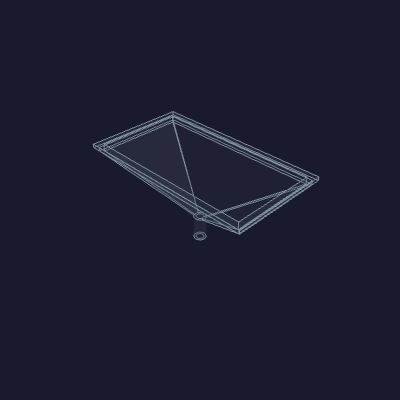
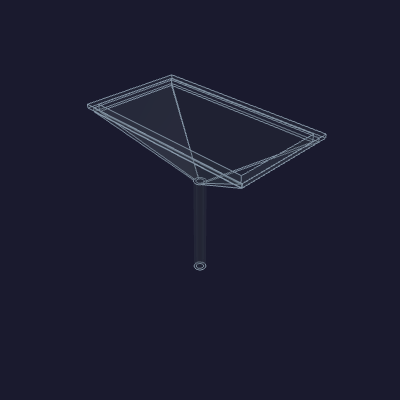
hopper-funnel: drop the spout exit to its column floor (z224 → z155)
The straight spout no longer uses a fixed 21 mm tube length. It now drops
by the same live rule the neck already uses: to one mm above the tallest
content under the spout's own circular footprint (a subset of the mouth, so
the exit is always at or below the neck). The narrow Ø6.35 column is clear
of every placed part from the neck down until it grazes the top-right corner
of the compressor-shroud, so the exit lands at z=155.5 — 68.5 mm lower than
before, total drop 143 mm below the brim, with a 1.0 mm gap to the shroud.

Centered on the opening, so x and y are unchanged.

Changed region(s): [[0.21, 0.18, 0.84, 0.6], [0.48, 0.63, 0.51, 0.69]]

diff --git a/hardware/printed-parts/zone-c/hopper-funnel/hopper_funnel.py b/hardware/printed-parts/zone-c/hopper-funnel/hopper_funnel.py
@@ -8,10 +8,11 @@ to bottom:
     top surface;
   * a straight rectangular collar — vertical walls, no slope — that press-fits
     into the opening, filling the 3 mm top wall;
-  * a ramp from that rectangular mouth down to a 1/4" round spout that hangs into
-    the Zone C funnel reserve, stopping one mm clear of the tallest content below
-    (the bib-gate tray) — so the drop is exactly the room the current packing
-    leaves.
+  * a ramp from that rectangular mouth down to a 1/4" round spout, then a straight
+    spout tube that hangs into the Zone C funnel reserve. The ramp necks one mm
+    above the tallest content under the mouth; the spout then drops to one mm above
+    the tallest content under its own circular footprint — so both sit exactly where
+    the current packing leaves room.
 
 The funnel shares the opening rectangle with the enclosure, so the collar always
 matches the hole. It is built in enclosure world coordinates (+X right, +Y back,
@@ -39,9 +40,9 @@ brim_thickness = 3.0    # flange thickness, resting on the enclosure top
 collar_wall = 3.0       # straight press-fit collar wall (opening − bore)
 spout_id = 6.35         # 1/4" outlet bore
 spout_wall = 2.0        # spout wall at the tip
-spout_tube = 21.0       # straight spout tube below the ramp tip — its length sets
-                        # how far the Ø6.35 exit drops into the clear column
-tip_clearance = 1.0     # gap left above the tallest content under the mouth
+tip_clearance = 1.0     # gap left above the tallest content under a footprint —
+                        # both the neck (under the mouth) and the spout exit (under
+                        # the spout's own column) stop this far above what they overlie
 
 
 # --- primitives -------------------------------------------------------------
@@ -93,11 +94,13 @@ def build():
     top_z = oz1 + brim_thickness                       # brim top = outermost point
     spout_or = spout_id / 2.0 + spout_wall
 
-    # The ramp necks to the round spout one mm above the bib-gate tray (read live);
-    # a straight spout tube then carries the Ø6.35 exit straight down the clear
-    # column, centered on the opening.
+    # The ramp necks to the round spout one mm above the tallest content under the
+    # wide mouth (read live). The straight spout then drops as far as its own narrow
+    # column allows — one mm above the tallest content under the spout's circular
+    # footprint, by the same live rule. The footprint is a subset of the mouth, so
+    # the exit never rises above the neck. Centered on the opening, so x and y hold.
     neck_z = _content_top(x0, x1, y0, y1)
-    end_z = neck_z - spout_tube
+    end_z = _content_top(cx - spout_or, cx + spout_or, cy - spout_or, cy + spout_or)
 
     # Outer: brim flange, straight collar, ramp to the spout, straight spout tube.
     solid = (

diff --git a/hardware/printed-parts/zone-c/hopper-funnel/README.md b/hardware/printed-parts/zone-c/hopper-funnel/README.md
@@ -17,9 +17,10 @@ drops straight into the opening:
   6 mm of straight rectangular wall pressing the opening sides.
 - **Ramp + spout.** Below the collar the bore ramps from the rectangular mouth
   down to a round [6.35 mm](HOPPER_SPOUT_ID) spout (1/4", matching the pump
-  tubing), centered on the opening. The ramp necks one mm above the bib-gate tray
-  (read live), then a straight spout tube carries the exit down the clear column.
-  Total drop [74 mm](HOPPER_DROP) below the brim.
+  tubing), centered on the opening. The ramp necks one mm above the tallest content
+  under the mouth (read live); the straight spout tube then drops down the clear
+  column to one mm above the tallest content under its own footprint. Total drop
+  [143 mm](HOPPER_DROP) below the brim.
 
 The collar footprint is taken from the enclosure's opening rectangle
 (`enclosure.py` `_hopper_hole`), so the funnel and hole always match.
